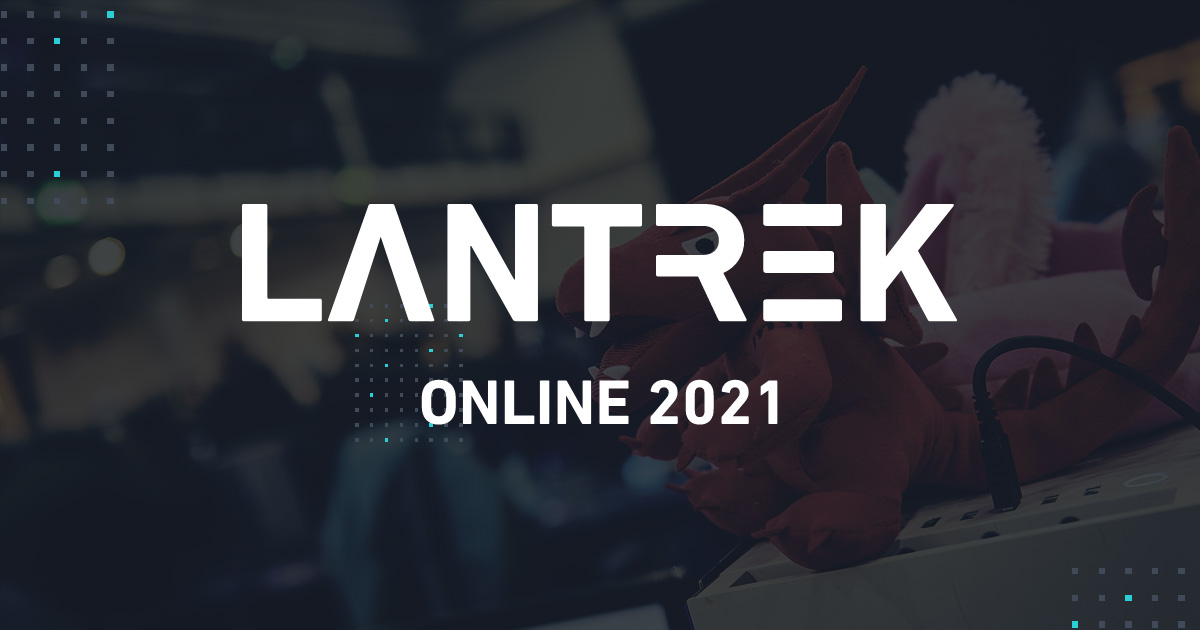
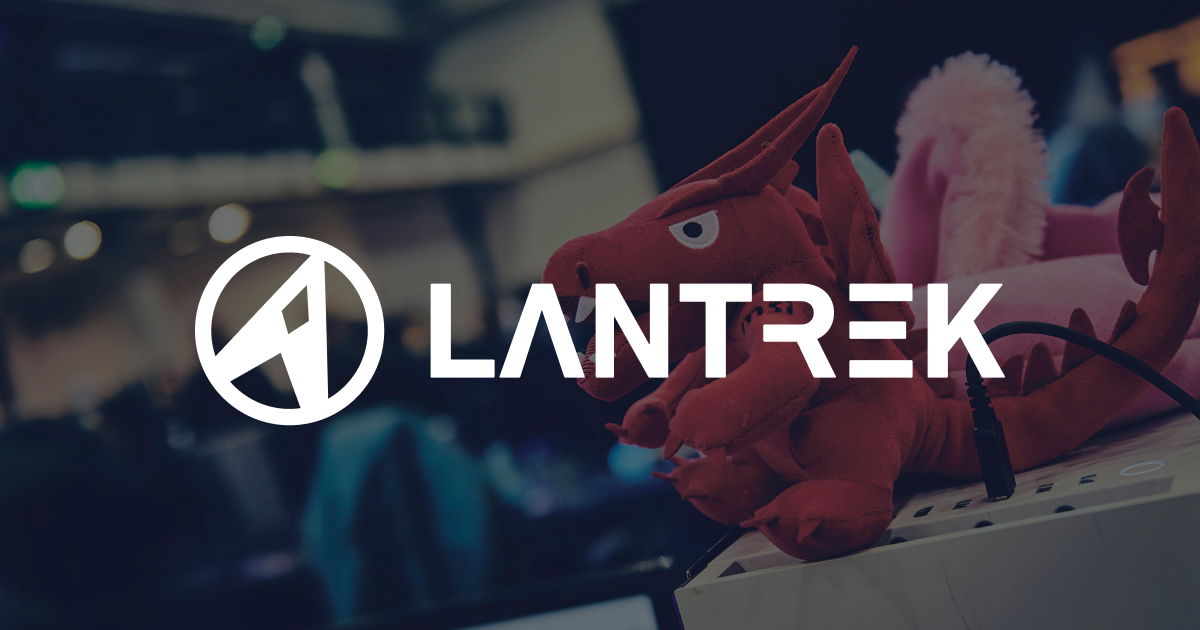
2022

diff --git a/pages/index.tsx b/pages/index.tsx
@@ -1,14 +1,20 @@
-import { useContext } from 'react';
+import { useContext, useState } from 'react';
 import Head from 'next/head';
-import { NextPage } from 'next';
 import Link from 'next/link';
-import { LanguageContext, locales } from '../intl/LanguageProvider';
 import useTranslation from '../intl/useTranslation';
+import { NextPage } from 'next';
+import { LanguageContext, locales } from '../intl/LanguageProvider';
 import { useRouter } from 'next/router';
+import { Modal, Button } from 'react-bootstrap'
 
 const Home: NextPage = () => {
   const { t } = useTranslation();
   const [locale, setLocale] = useContext(LanguageContext);
+  const [show, setShow] = useState(false);
+
+  const handleClose = () => setShow(false);
+  const handleShow = () => setShow(true);
+
   const router = useRouter();
 
   function handleLocaleChange (language: string) {
@@ -17,14 +23,14 @@ const Home: NextPage = () => {
     router.push(router.pathname, router.asPath.replace(regex, `/${ language }`));
   }
 
-  const title = 'Lantrek Online 2021 - 4.-7. maaliskuuta, 2021';
-  const description = ' LanTrek Online 2021 tapahtuma järjestetään 4-7.3.2021. Tapahtumassa on luvassa peliturnauksia, kilpailuita, etäpisteitä ympäri Tamperetta, streamaajia ja koko viikonlopun kestävä TV-lähetys';
+  const title = 'Lantrek 2022 - 3-6. maaliskuuta, 2022';
+  const description = ' LanTrek 2022 tapahtuma järjestetään 3-6.3.2022, Tampereen messu- ja urheilukeskuksessa! Kaikkien iloksi palaamme jälleen fyysiseksi tapahtumaksi välivuoden jälkeen - vähänkö siistiä!';
 
   return (
     <>
       <div id="root">
         <Head>
-          <title>Lantrek Online 2021</title>
+          <title>Lantrek 2022 - 3-6. maaliskuuta, 2022</title>
           <meta name="viewport" content="width=device-width, initial-scale=1"/>
           <meta charSet="utf-8"/>
           <meta name="description" content={ description }/>
@@ -57,7 +63,7 @@ const Home: NextPage = () => {
             <div className="wrapper">
               <div className="row">
                 <div className="col-xs-12 col-md-4">
-                  <img src="/logo.svg" alt="Lantrek Online 2021" title="Lantrek Online 2021" width="234" height="72"/>
+                  <img src="/logo.svg" alt="Lantrek 2022" title="Lantrek 2022" width="234" height="72"/>
                 </div>
                 <div className="col-xs-12 col-md-8 social-media-links">
                   <div className="link-group">
@@ -79,20 +85,20 @@ const Home: NextPage = () => {
           </div>
           <div className="content row">
             <div className="col-xs-12 col-md-8">
-              <h3>{ t('4th - 7th of March, 2021') }</h3>
-              <h1>{ t('THIS YEAR') }<br/> { t('ONLINE ONLY') }!</h1>
-              <Link href="https://facebook.com/story.php?story_fbid=10160184267810730&id=201321150729">
-                <a className="button announcement-link" target="_blank">{ t('Read announcement (Finnish only)') }</a>
-              </Link>
+              <h3>{ t('3rd - 6th of March, 2022') }</h3>
+              <h1>{ t('GAMING AGAIN AT') }<br/> <span>{ t('TAMPERE EXHIBITION AND SPORTS CENTRE') }!</span></h1>
               <div className="link-group">
-                <Link href="https://2018.lantrek.org">
-                  <a className="button" target="_blank">2018</a>
-                </Link>
+                <Button variant="primary" onClick={handleShow}>
+                  { t('Press release') }
+                </Button>
                 <Link href="https://2020.lantrek.org">
                   <a className="button" target="_blank">2019</a>
                 </Link>
                 <Link href="https://2020.lantrek.org">
                   <a className="button" target="_blank">2020</a>
+                </Link>
+                <Link href="https://2021.lantrek.org">
+                  <a className="button" target="_blank">2021</a>
                 </Link>
                 <Link href="https://lantrek.1g.fi/kuvat/">
                   <a className="button" target="_blank">{ t('Gallery') }</a>
@@ -100,11 +106,21 @@ const Home: NextPage = () => {
               </div>
             </div>
             <div className="col-xs-12 col-md-4 website-opened">
-              <p>{ t('Website will be opened in January') }.</p>
+              <p>{ t('Website will be opened later') }.</p>
             </div>
           </div>
         </section>
       </div>
+
+      <Modal show={show} onHide={handleClose} size="lg">
+        <Modal.Header closeButton closeVariant={'white'}>
+          <Modal.Title>LanTrek 2022 - Taas pelataan</Modal.Title>
+        </Modal.Header>
+
+        <Modal.Body>
+          <p>Modal body text goes here.</p>
+        </Modal.Body>
+      </Modal>
       <noscript>
         <iframe src="https://www.googletagmanager.com/ns.html?id=GTM-TVBFTWL" height="0" width="0" style={{ display: 'none', visibility: 'hidden' }} />
       </noscript>

diff --git a/styles/globals.scss b/styles/globals.scss
@@ -1,3 +1,5 @@
+@import "~bootstrap/scss/bootstrap";
+
 $color-cyan: #2BCED6;
 $color-orange: #E29633;
 $color-border: #404A58;
@@ -6,6 +8,21 @@ $color-dark-blue: #11171D;
 
 @mixin defaultTransition {
   transition: all .12s ease-in-out;
+}
+
+.btn {
+  background: $color-cyan;
+  border-radius: 0;
+  font-family: 'Lato', -apple-system, BlinkMacSystemFont, Segoe UI, Roboto, Oxygen,
+  Ubuntu, Cantarell, Fira Sans, Droid Sans, Helvetica Neue, sans-serif;
+  font-weight: 500;
+  text-shadow: 0 1px 1px rgba(0,0,0,0.2);
+  border: 0;
+  outline: 0 !important;
+
+  &:hover {
+    background: #19b0b7;
+  }
 }
 
 @import url('https://fonts.googleapis.com/css2?family=Lato:wght@400;700&family=Poppins:wght@500;600;700&display=swap');
@@ -44,6 +61,20 @@ h1 {
 
   @media screen and (min-width: 1280px) {
     font-size: 6rem;
+  }
+
+  span {
+    font-size: 1.75rem;
+    line-height: 1.25;
+    display: block;
+
+    @media screen and (min-width: 960px) {
+      font-size: 2.5rem;
+    }
+
+    @media screen and (min-width: 1280px) {
+      font-size: 3.5rem;
+    }
   }
 }
 
@@ -287,6 +318,28 @@ button {
   height: 200px;
   width: 250px;
   z-index: 0;
+}
+
+.modal-content {
+  border-radius: 0;
+  background: $color-dark-blue;
+  padding: 1rem;
+
+  .modal-header {
+    border-bottom: 0;
+
+    .modal-title {
+      font-family: 'Poppins', 'Lato', -apple-system, BlinkMacSystemFont, Segoe UI, Roboto, Oxygen, Ubuntu, Cantarell, Fira Sans, Droid Sans, Helvetica Neue, sans-serif;
+      font-weight: 700;
+      margin: 0;
+      line-height: 1.2;
+    }
+  }
+
+  .btn-close {
+    color: #FFF !important;
+    fill: white;
+  }
 }
 
 @import "grid";

diff --git a/intl/Strings.ts b/intl/Strings.ts
@@ -2,17 +2,19 @@ export const LangStrings = {
   en: {
     Gallery: "Gallery",
     "Read announcement (Finnish only)": "Read announcement (Finnish only)",
-    "4th - 7th of March, 2021": "4th - 7th of March, 2021",
-    "THIS YEAR": "THIS YEAR",
-    "ONLINE ONLY": "ONLINE ONLY",
-    "Website will be opened in January": "Website will be opened in January"
+    "3rd - 6th of March, 2022": "3rd - 6th of March, 2022",
+    "GAMING AGAIN AT'": "GAMING AGAIN AT'",
+    "TAMPERE EXHIBITION AND SPORTS CENTRE": "OTAMPERE EXHIBITION AND SPORTS CENTRE",
+    "Website will be opened later": "Website will be opened later",
+    "Press release": "Press release",
   },
   fi: {
     Gallery: "Galleria",
-    "4th - 7th of March, 2021": "4. - 7. maaliskuuta, 2021",
+    "3rd - 6th of March, 2022": "3. - 6. maaliskuuta, 2022",
     "Read announcement (Finnish only)": "Lue tiedote",
-    "THIS YEAR": "TÄNÄ VUONNA",
-    "ONLINE ONLY": "VAIN ONLINE",
-    "Website will be opened in January": "Verkkosivusto avataan tammikuussa"
+    "GAMING AGAIN AT": "TAAS PELATAAN",
+    "TAMPERE EXHIBITION AND SPORTS CENTRE": "TAMPEREEN MESSU- JA URHEILUKESKUKSESSA",
+    "Website will be opened later": "Verkkosivusto avataan myöhemmin",
+    "Press release": "Lehdistötiedote",
   },
 }
